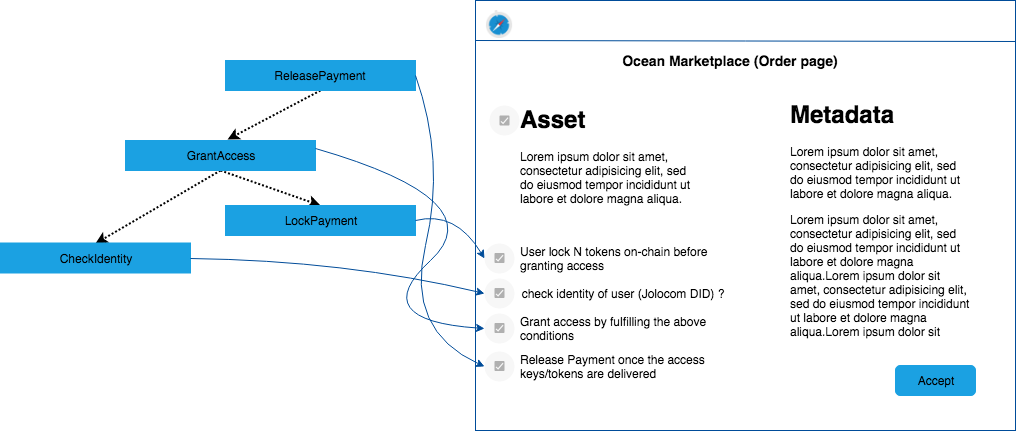
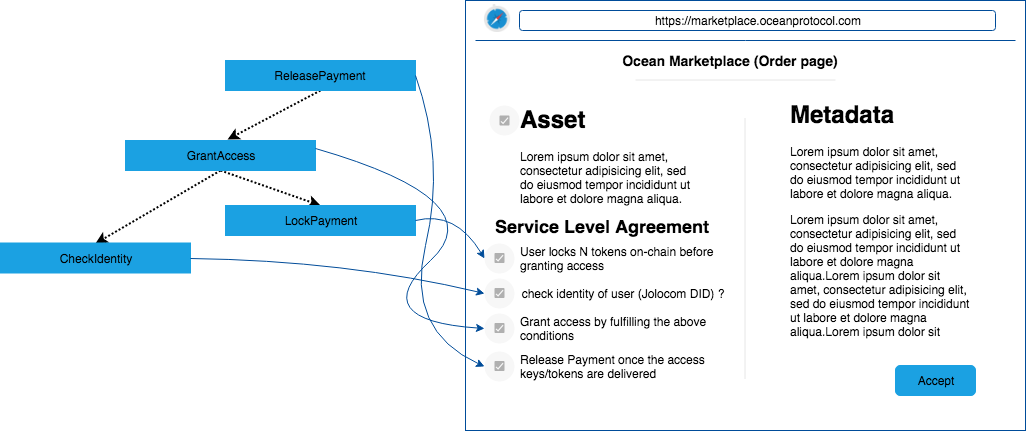
update the flow section

diff --git a/doc/sla.md b/doc/sla.md
@@ -549,12 +549,34 @@ The lifecycle of the service level agreement is determined by three phases
 
 **1. Definition Phase**
 
+**The service level agreement is defined once, consumed many.** This means that the marketplace, tribe, or any entity provides 
+a service could able to define their own SLA in terms of conditions. The conditions reflect the on-chain `<controller-contract and function fingerprints` where
+they are defined in the [off-chain schema](#event-driven-representation).
+
 **2. Setup Phase**
+
+In the setup phase, the consumer sign the service level agreement provided by the marketplace, then the marketplace
+will invoke the `setupAgreement` on-chain by providing 
+
+- set of controller contracts
+- set of fingerprints
+- the dependency model
+- the consumer signature
+
+The SLA contract will emit events for the service id and indicating the SLA setup status (true/false).
+
 
 **3. Execute Phase**
 
+Once the SLA is setup on-chain, the actors will trigger the associated tranasctions. For instance, the consumer will 
+lock the payment on-chain `fulfills lockPayment` condition. An event will be emitted by the condition indicate the fulfilment, as 
+marketplace, will react to this by granting access to the user and so on. This will seem like a chain reaction between 
+parties. 
+
 **4. Dispute Phase (Optional)**
 
+Dispute in merkelized SLA is super easy because, it could be resolved by `log(n)` search in the merkelized SLA. The dispute itslf could be defined 
+as a part of the SLA conditions as well.
 
 ## Marketplace Reference Architecture
 
